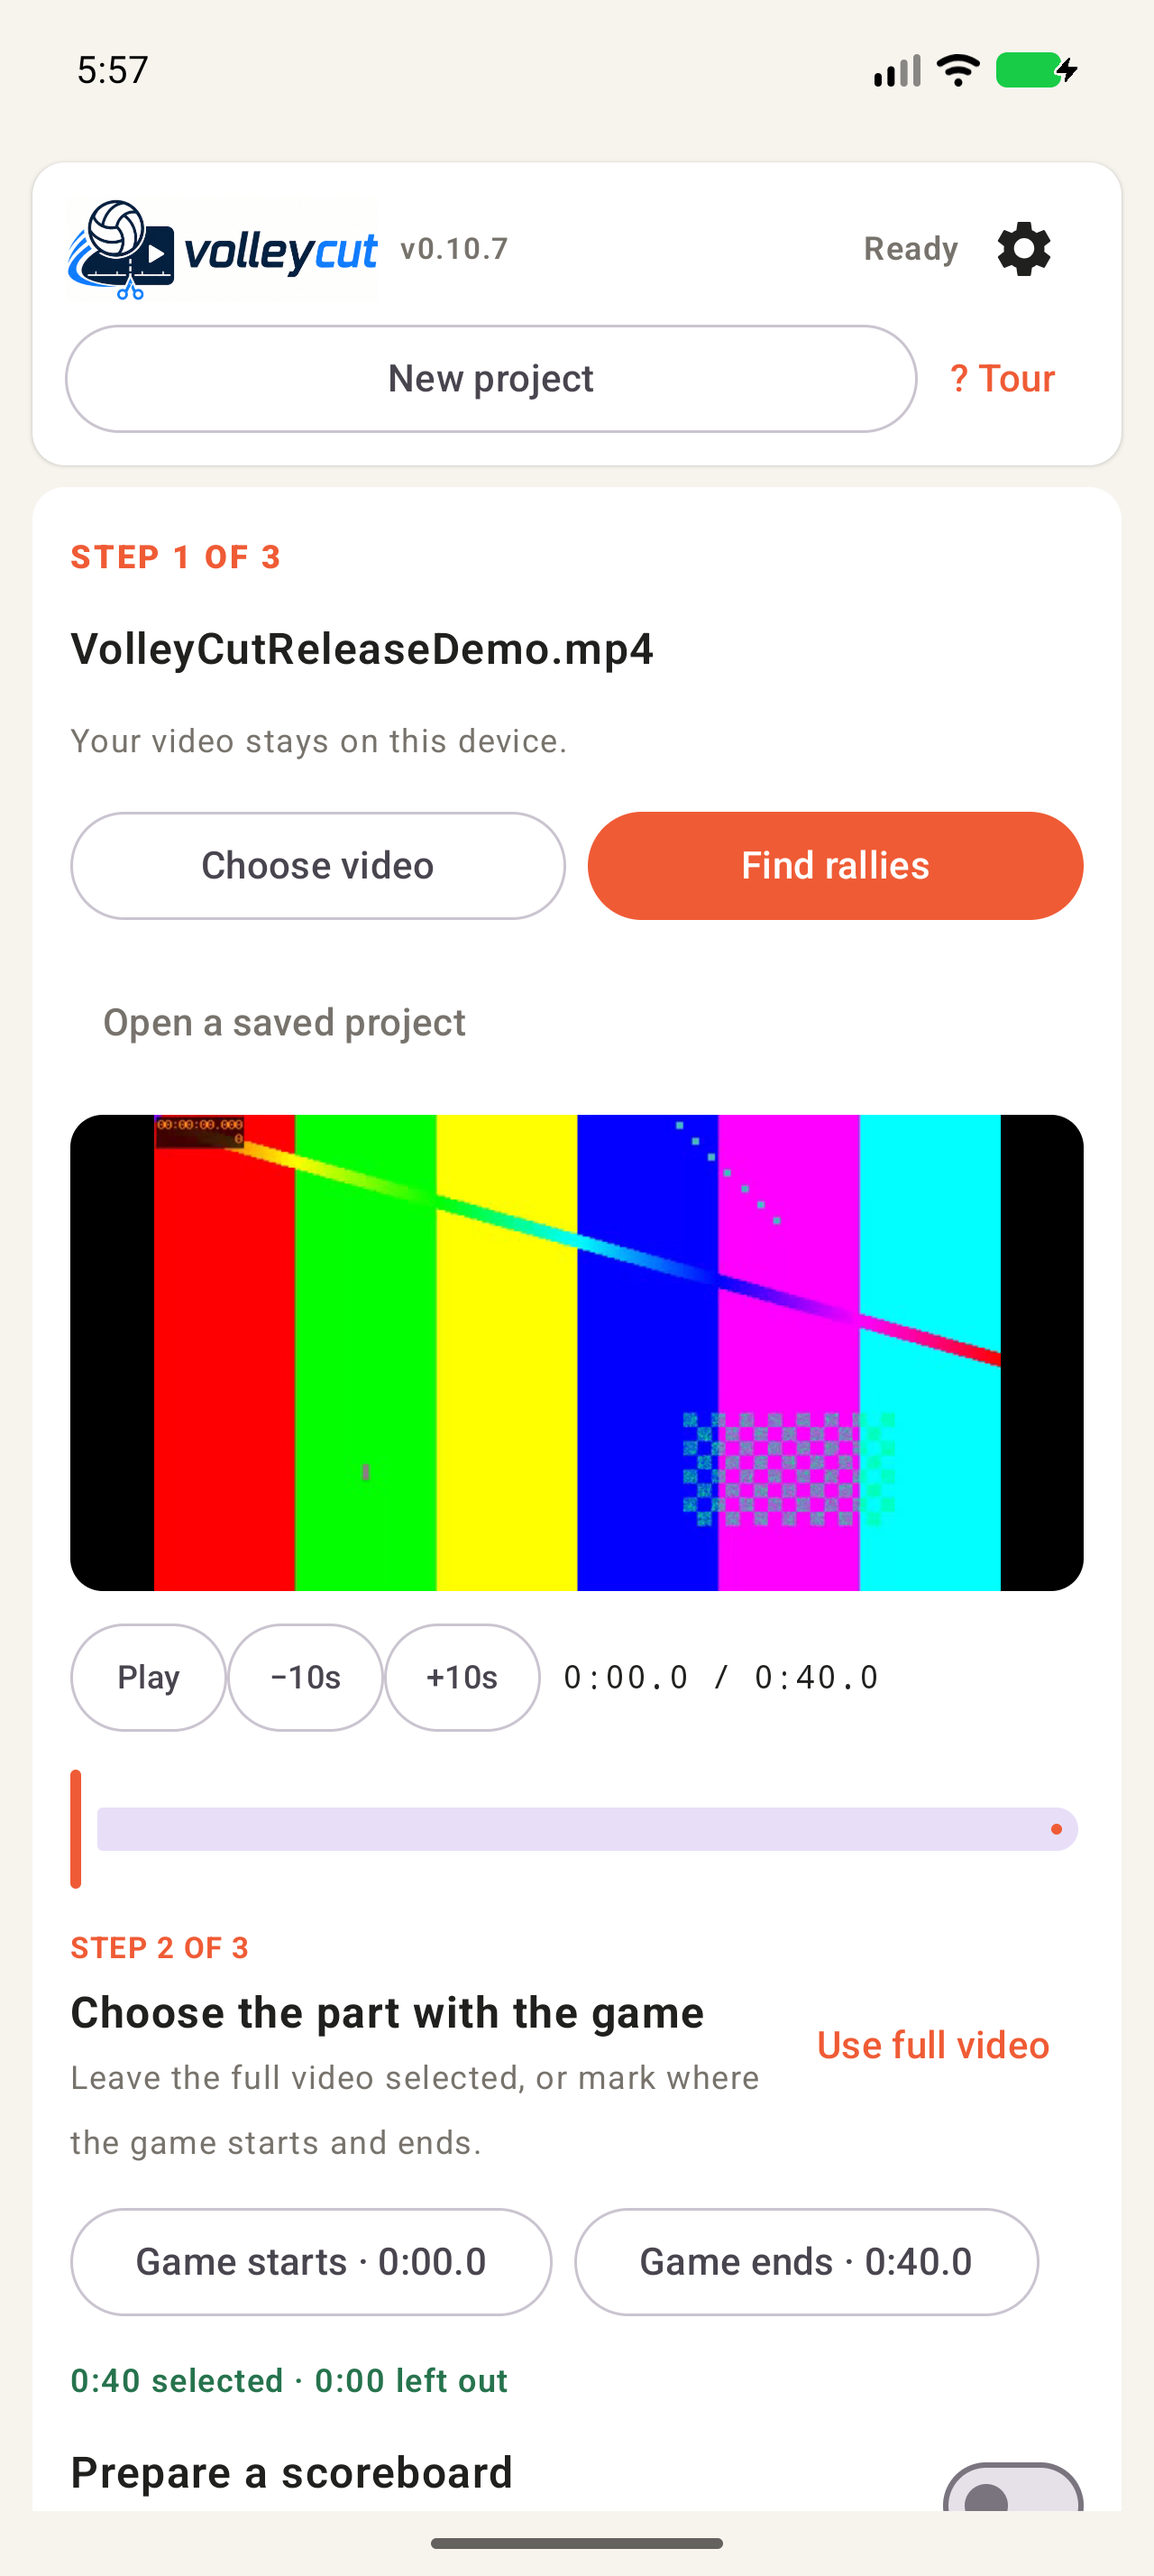
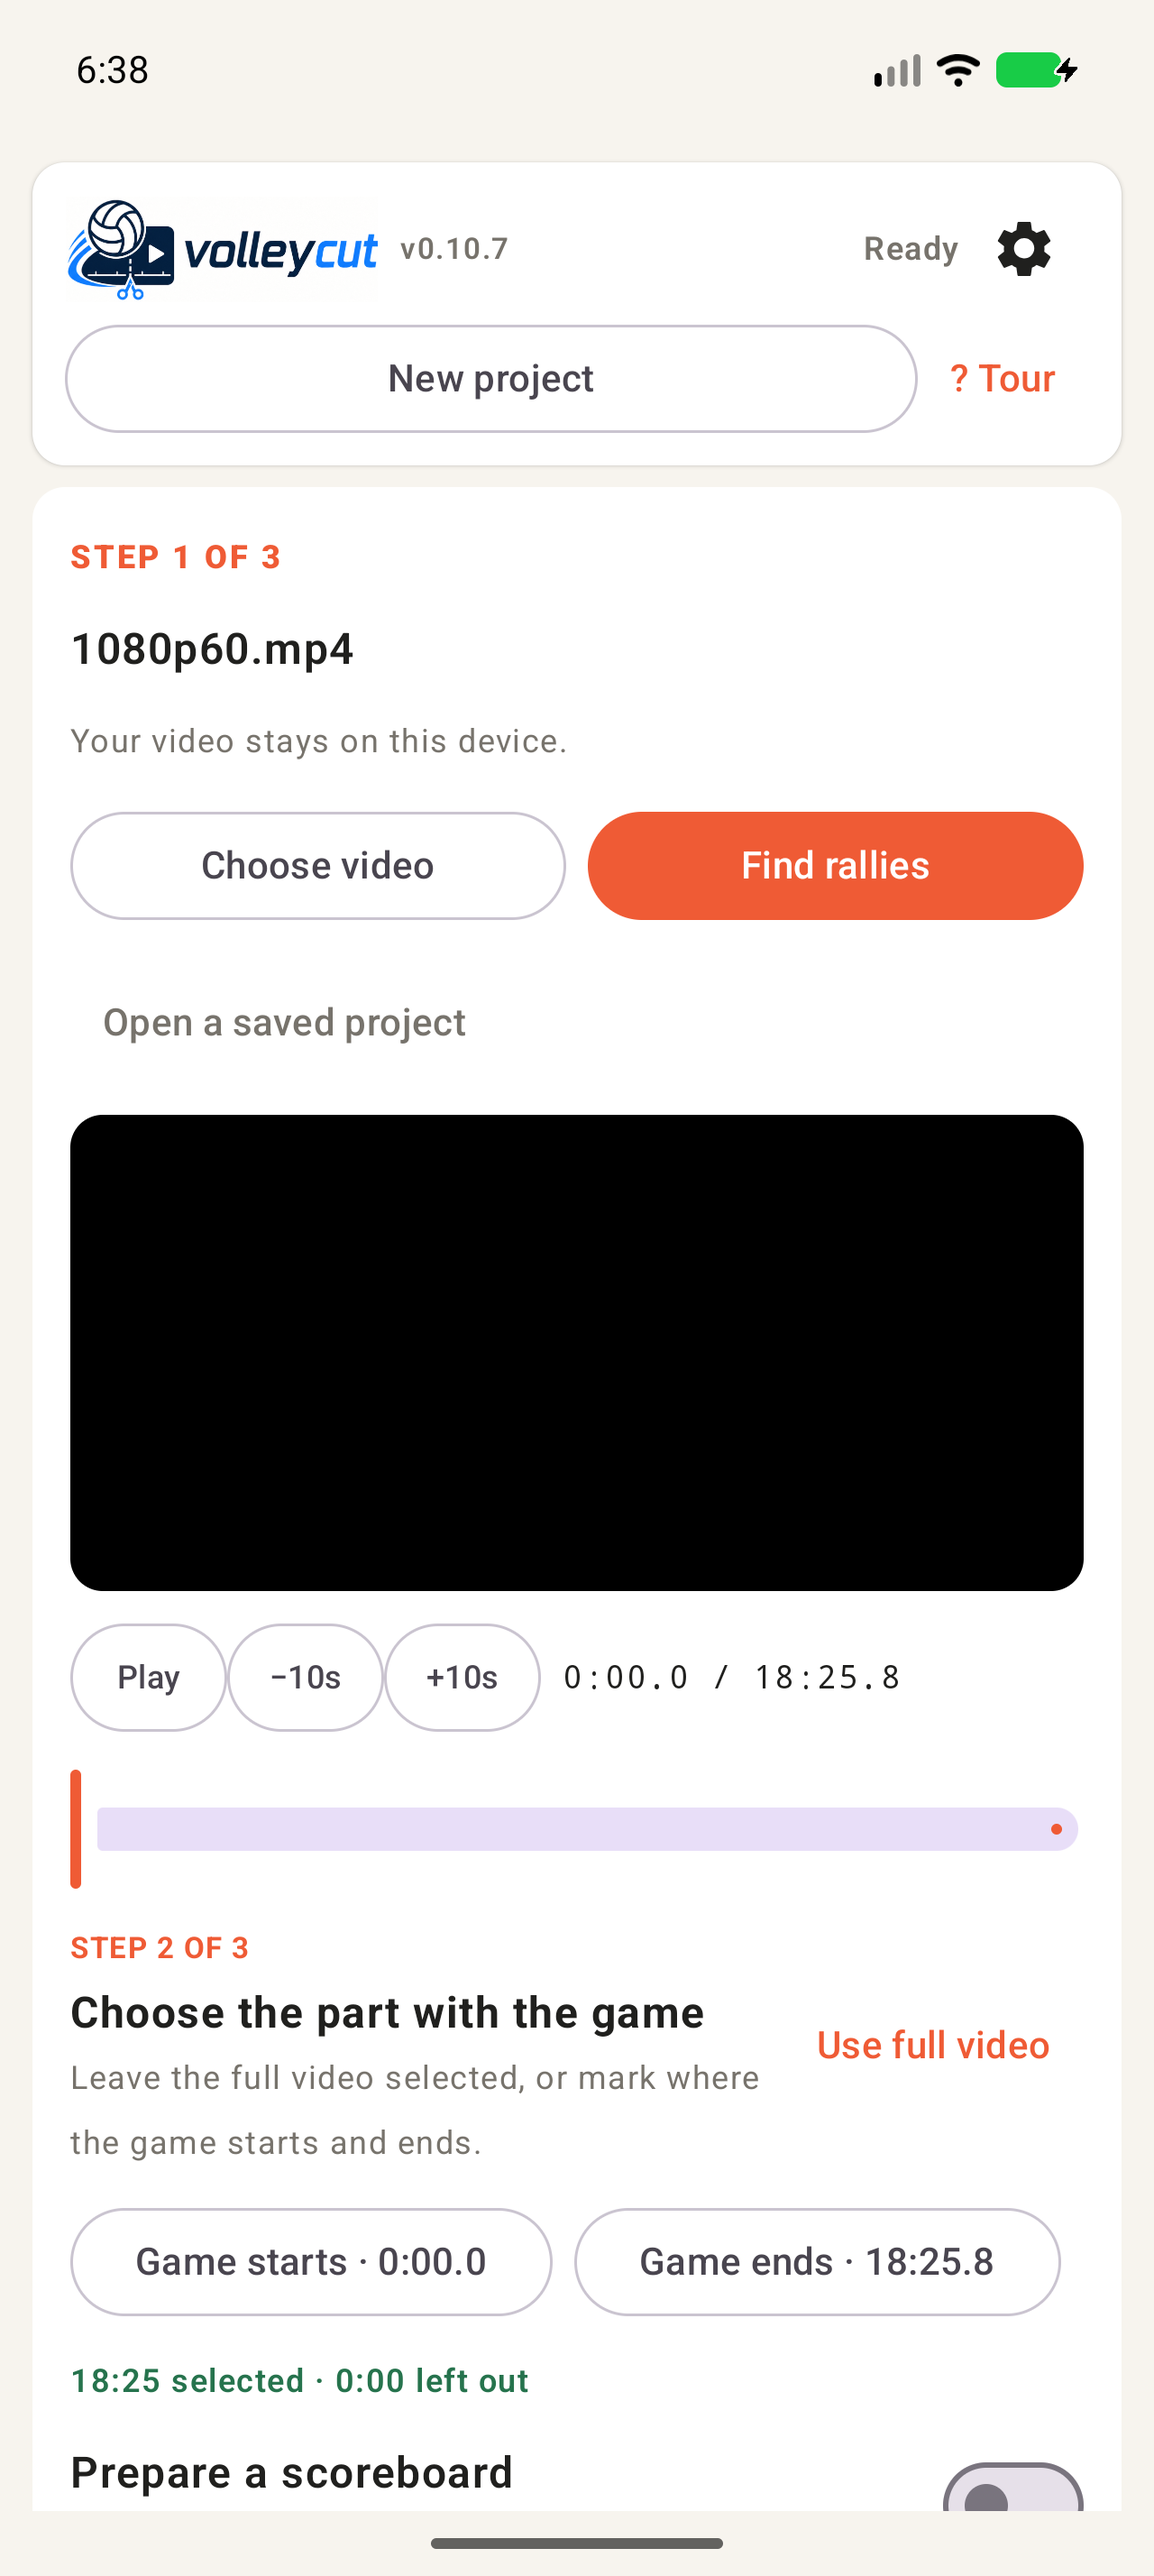
Use real match data in Play Store screenshots

diff --git a/android/app/src/main/java/com/volleycut/nativeanalysis/EditorActivity.kt b/android/app/src/main/java/com/volleycut/nativeanalysis/EditorActivity.kt
@@ -1763,11 +1763,15 @@ private fun GameWindowPicker(
         }
     }
     Card(colors = CardDefaults.cardColors(containerColor = Color.Black)) {
-        ContentFrame(
-            player = player,
-            modifier = Modifier.fillMaxWidth().height(176.dp),
-            surfaceType = SURFACE_TYPE_TEXTURE_VIEW,
-        )
+        Box(Modifier.fillMaxWidth().height(176.dp)) {
+            if (!BuildConfig.BLACK_VIDEO_PREVIEW) {
+                ContentFrame(
+                    player = player,
+                    modifier = Modifier.fillMaxSize(),
+                    surfaceType = SURFACE_TYPE_TEXTURE_VIEW,
+                )
+            }
+        }
     }
     Row(verticalAlignment = Alignment.CenterVertically) {
         SmallButton(if (playing) "Pause" else "Play", enabled = enabled) {
@@ -2586,11 +2590,13 @@ private fun EditorScreen(
                 colors = CardDefaults.cardColors(containerColor = Color.Black),
             ) {
                 BoxWithConstraints(Modifier.fillMaxWidth().height(176.dp)) {
-                    ContentFrame(
-                        player = player,
-                        modifier = Modifier.fillMaxSize(),
-                        surfaceType = SURFACE_TYPE_TEXTURE_VIEW,
-                    )
+                    if (!BuildConfig.BLACK_VIDEO_PREVIEW) {
+                        ContentFrame(
+                            player = player,
+                            modifier = Modifier.fillMaxSize(),
+                            surfaceType = SURFACE_TYPE_TEXTURE_VIEW,
+                        )
+                    }
                     if (draft.renderScoreOverlay && draft.scoreTracking.enabled) {
                         val (displayWidth, displayHeight) = scoreOverlayDisplaySize(
                             seed.width, seed.height, seed.rotation,
@@ -3715,7 +3721,12 @@ private fun ScoreOverlayPreview(
     BoxWithConstraints(modifier) {
         val videoWidthPx = with(density) { maxWidth.toPx().roundToInt() }
         val videoHeightPx = with(density) { maxHeight.toPx().roundToInt() }
-        val layout = ScoreOverlay.layout(videoWidthPx, videoHeightPx, snapshot) { text, fontSize ->
+        // Store screenshots intentionally hide the source footage. Give the
+        // remaining score UI more visual weight so it survives Play resizing.
+        val overlayLayoutHeightPx = if (BuildConfig.BLACK_VIDEO_PREVIEW) {
+            videoHeightPx * 2
+        } else videoHeightPx
+        val layout = ScoreOverlay.layout(videoWidthPx, overlayLayoutHeightPx, snapshot) { text, fontSize ->
             measurer.measure(
                 text,
                 style = androidx.compose.ui.text.TextStyle(
@@ -3797,7 +3808,7 @@ private fun ScoreOverlayPreview(
         if (renderTimeline && visibleTimelinePoints.isNotEmpty() && timeline.opacity > 0f) {
             val pointLayout = ScoreOverlay.pointTimelineLayout(
                 videoWidthPx,
-                videoHeightPx,
+                overlayLayoutHeightPx,
                 layout,
                 visibleTimelinePoints.size,
             )

diff --git a/android/play-store/scripts/compose_featured_screenshots.py b/android/play-store/scripts/compose_featured_screenshots.py
@@ -40,9 +40,9 @@ SCREENS = [
         "source": "03-review-timeline.png",
         "output": "03-review-suggested-rallies.png",
         "step": "3 · REVIEW",
-        "headline": ("Review every", "suggested rally"),
-        "support": "See the final timeline and quickly confirm the clips that need attention.",
-        "crop_y": 500,
+        "headline": ("Review rallies", "with the score"),
+        "support": "See score, point history, and the full match timeline while checking every clip.",
+        "crop_y": 250,
     },
     {
         "source": "04-edit-and-add-rally.png",

diff --git a/android/play-store/README.md b/android/play-store/README.md
@@ -5,15 +5,14 @@
 - `app-icon-512.png` — 512×512 PNG, existing launcher artwork
 - `feature-graphic-1024x500.png` — 1024×500 RGB PNG
 - `screenshots/phone-upload-featured/` — five ordered 1080×2160 RGB PNGs with feature-focused Play Store copy
-- `screenshots/phone-release-sources-v2/` — five 1344×2992 source captures from the release-equivalent screenshot build
+- `screenshots/phone-release-sources-v2/` — five native-resolution source captures from the release-equivalent screenshot build
 - `screenshots/phone-upload-final/` — eight legacy 1280×2560 source/reference captures
 
 The featured upload set turns real app captures into a consistent five-step
 store-listing sequence: select the game window, confirm Strong automatic cleanup,
-review suggested rallies, fix or add rallies, and export the finished MP4. Large
+review rallies with score context, fix or add rallies, and export the finished MP4. Large
 branded headers make each value proposition readable in the Play Store thumbnail
-while the underlying product UI demonstrates the exact feature. The fresh project
-was created normally on a Pixel 10 Pro AVD with a synthetic, non-personal fixture.
+while the underlying product UI demonstrates the exact feature.
 
 ## Text and declarations
 
@@ -54,7 +53,7 @@ are:
 
 1. `Start with any game video` / `Select the game window in seconds — your video stays on your phone.`
 2. `Strong cleanup, ready by default` / `Adjust extra time, short breaks, and how many clips need a check.`
-3. `Review every suggested rally` / `See the final timeline and quickly confirm the clips that need attention.`
+3. `Review rallies with the score` / `See score, point history, and the full match timeline while checking every clip.`
 4. `Fix cuts or add a missed rally` / `Trim clip edges, split a rally, or mark missing action yourself.`
 5. `Export one finished highlight video` / `Save a private, offline MP4 that is ready to share.`
 
@@ -66,3 +65,12 @@ The screenshot build inherits the minified, non-debuggable release configuration
 and uses an isolated `.screenshot` application ID with the standard debug
 certificate because Android cannot install an unsigned APK. The production
 `app-release-unsigned.apk` remains unsigned and untouched.
+
+The setup and review captures were generated from the complete `Z:\1080p60.mp4` match. Because
+the Pixel 10 Pro AVD cannot decode that source's H.264 stream, it was transcoded at
+full duration to an emulator-compatible MPEG-4 copy before import. VolleyCut then
+decoded 33,175 video frames, generated 4,424 feature rows, found 61 rally clips and
+50 serve markers, and calculated the displayed 11–13 score at 9:25.9. The
+screenshot build replaces only the decoded video layer with black; the scoreboard,
+point history, playhead, rally ranges, cleanup suggestions, and score are real app
+output from that analysis.

diff --git a/android/play-store/store-listing.md b/android/play-store/store-listing.md
@@ -93,7 +93,7 @@ The same privacy policy and terms cover both the Android app and browser-based w
 2. `screenshots/phone-upload-featured/02-strong-cleanup-default.png`
    - Alt text: "VolleyCut Settings with Strong automatic cleanup selected by default plus clip padding, short-break, and review controls."
 3. `screenshots/phone-upload-featured/03-review-suggested-rallies.png`
-   - Alt text: "Review suggested volleyball rallies on a two-part game timeline and confirm that every flagged clip has been checked."
+   - Alt text: "Review volleyball rallies at 9:25 with an 11 to 13 scoreboard, point history, and a two-part game timeline."
 4. `screenshots/phone-upload-featured/04-fix-or-add-rallies.png`
    - Alt text: "Fine-tune rally and final clip edges, split at the playhead, preview a clip, or add a missed rally."
 5. `screenshots/phone-upload-featured/05-export-highlight-video.png`
@@ -101,8 +101,10 @@ The same privacy policy and terms cover both the Android app and browser-based w
 
 The featured screenshots use exact `v0.10.7` UI captures from a minified,
 non-debuggable release-equivalent build, with concise marketing headers added for
-Play Store readability. A fresh project was created normally on a Pixel 10 Pro AVD
-using a synthetic non-personal video fixture. The current source captures remain in
+Play Store readability. The review screen uses app-generated rally and score output
+from the complete `1080p60.mp4` match at 9:25.9; its screenshot-only build hides the
+decoded video layer behind black while leaving the real score and timeline UI
+visible. The current source captures remain in
 `screenshots/phone-release-sources-v2/` for audit and future regeneration.
 
 ## Feature graphic alt text
